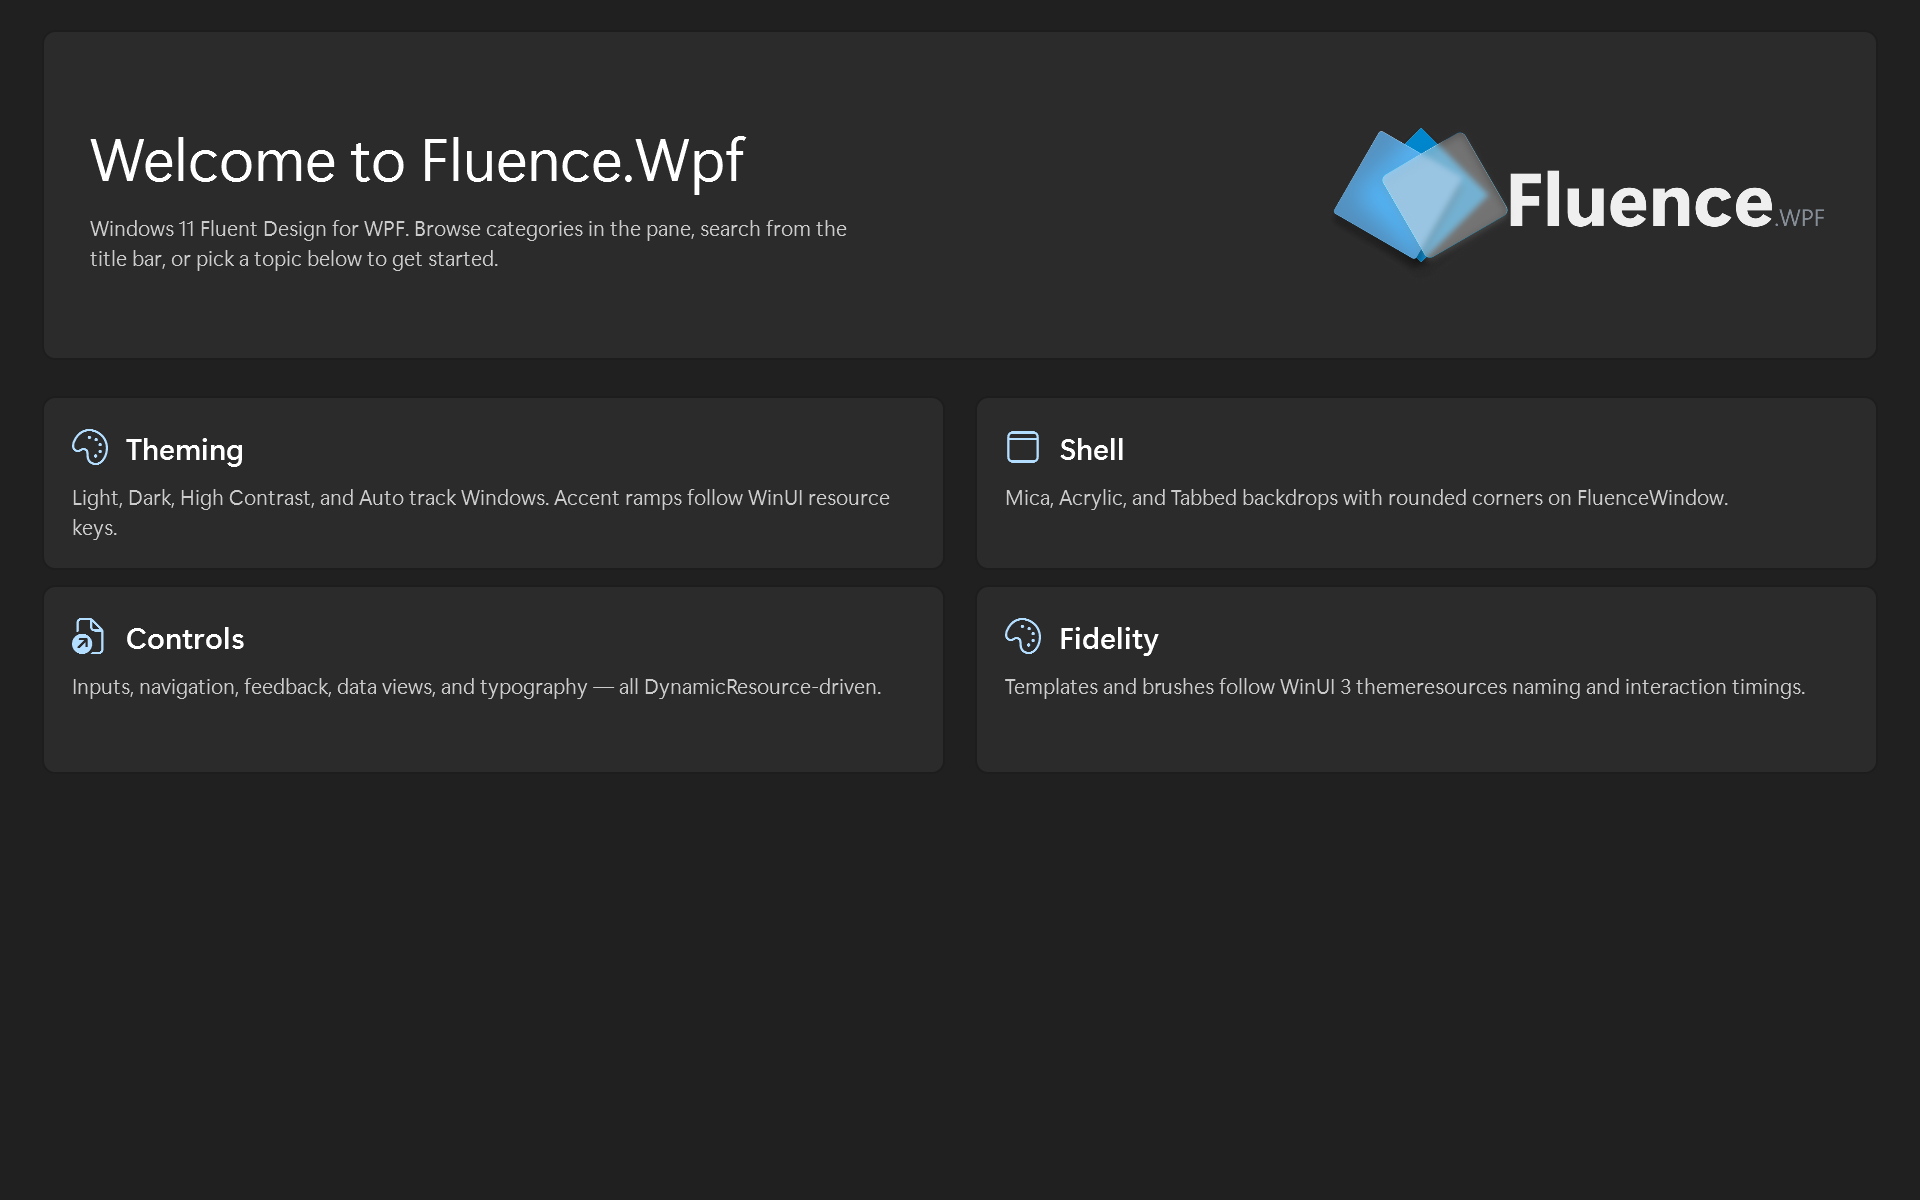
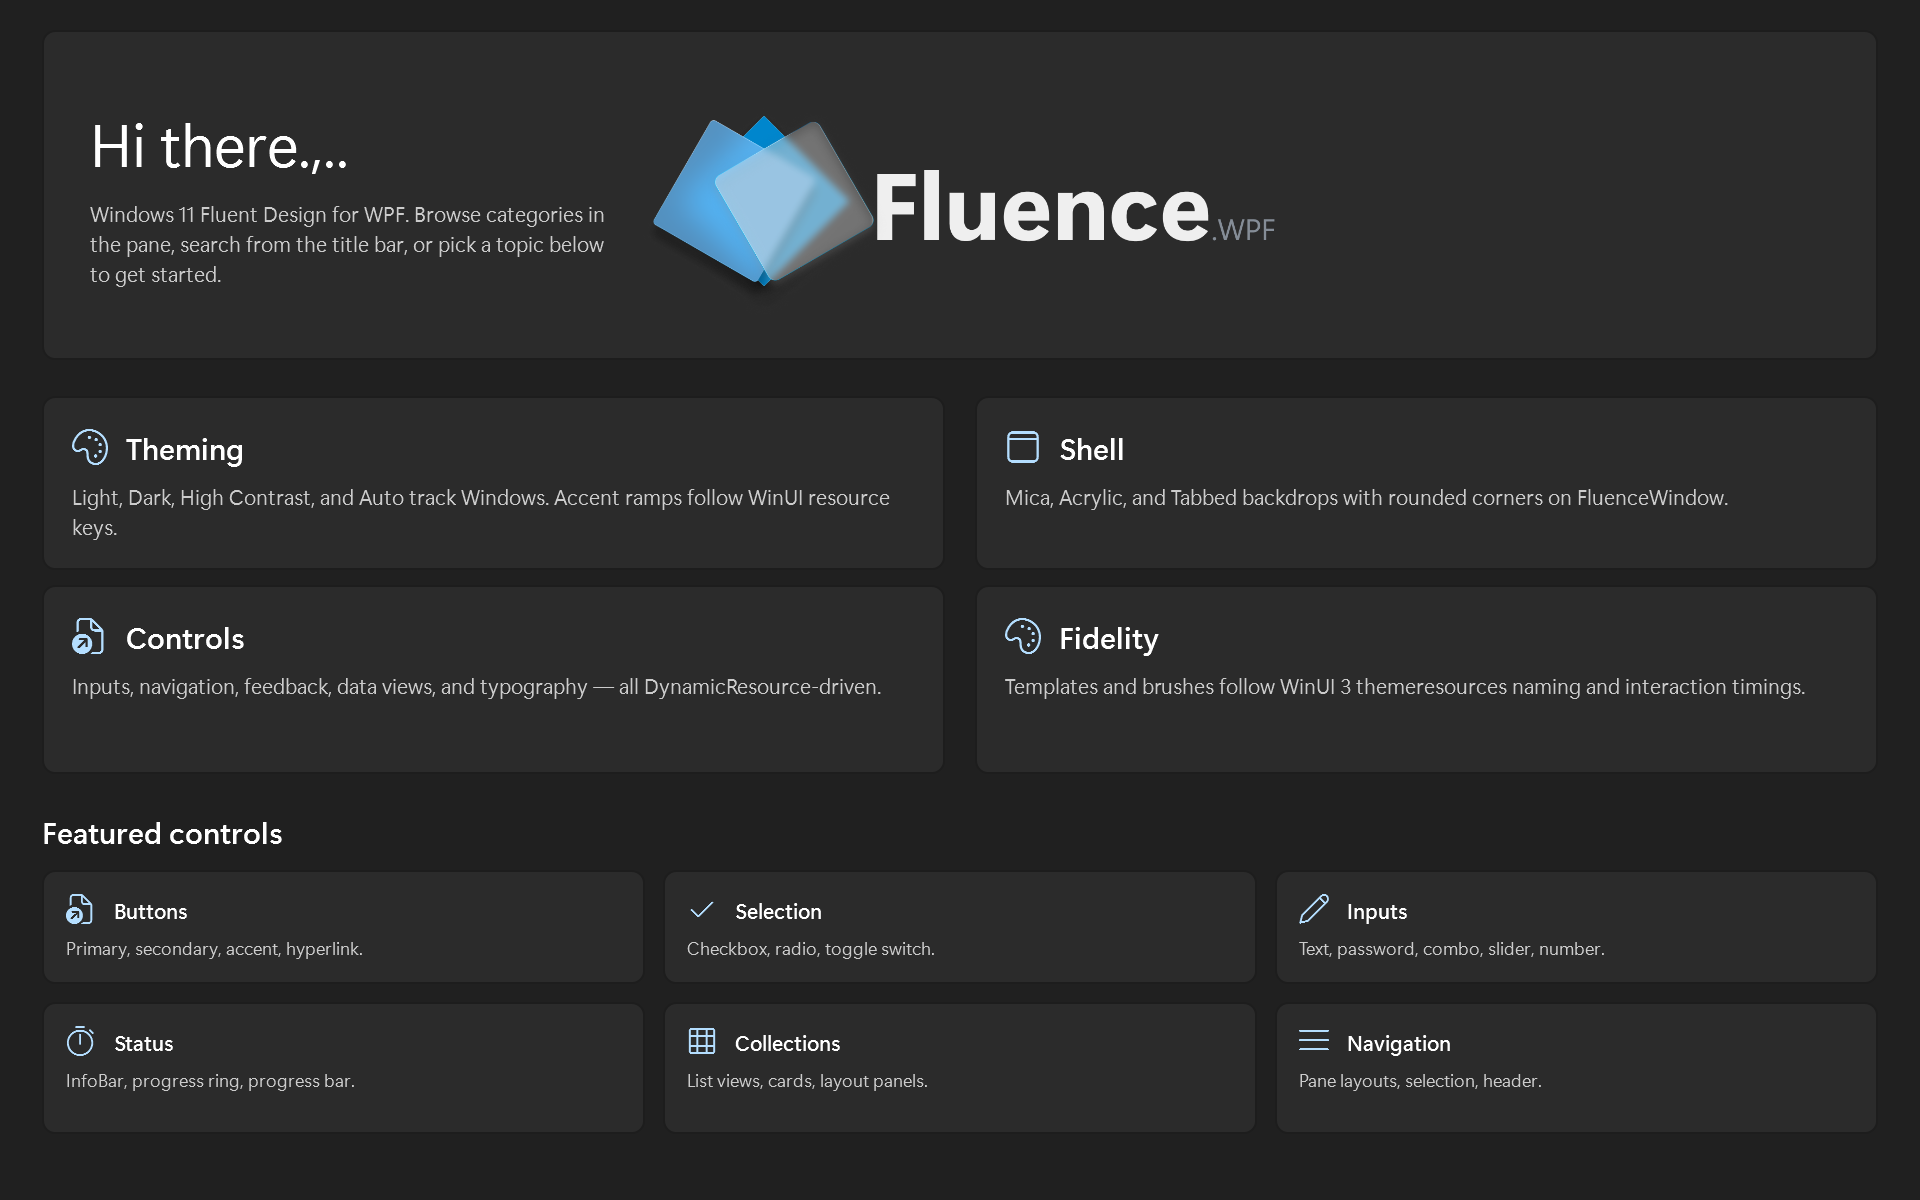
Docs: Regenerate gallery screenshots post WI-1D Paradigm A (Step 1D.3)
Reruns GalleryScreenshotHarness.CaptureBannerAcrossThemesAndScales with
FLUENCE_CAPTURE_SCREENSHOTS=1 to capture the new FeaturedControlsGrid + six
featured control tiles (Buttons, Selection, Inputs, Status, Collections,
Navigation) that landed in 46c4b93 alongside the existing four-tile category
grid (Theming, Shell, Controls, Fidelity). File sizes grew ~34% per image,
reflecting the added surface.

Visual verification pass: Light and Dark render cleanly with theme-reactive
brushes tracking the swap; HighContrast shows correct FeaturedControlsGrid +
category tiles (the pre-existing HC banner wordmark fade is unrelated to WI-1D
and is a separate BannerLight.png raster concern).

Logged evidence + repeatable invocation command in
docs/_internal/wi1-verification.md. WI-1D Step 1D.3 closed end to end.

diff --git a/docs/_internal/wi1-verification.md b/docs/_internal/wi1-verification.md
@@ -288,6 +288,46 @@ Remaining single failure is the pre-existing WI-3 item
 `RadioButton_OuterRing_UsesControlStrongStrokeBrush` — WI-1 is now closed end
 to end.
 
+### WI-1D Step 1D.3 — screenshot regeneration (recorded 2026-04-20)
+
+Regenerated `docs/screenshots/banner-{light,dark,highcontrast}-{1,1.5}x.png` via
+[GalleryScreenshotHarness.CaptureBannerAcrossThemesAndScales](../../Fluence.Wpf.Tests/GalleryScreenshotHarness.cs)
+with `FLUENCE_CAPTURE_SCREENSHOTS=1`. Invocation that works inside this session:
+
+```powershell
+dotnet vstest Fluence.Wpf.Tests/bin/Debug/net10.0-windows10.0.26100.0/Fluence.Wpf.Tests.dll `
+  --TestCaseFilter:"FullyQualifiedName~CaptureBannerAcrossThemesAndScales"
+```
+
+(`dotnet test` silently skipped output in this session's shell; `dotnet vstest`
+against the pre-built DLL is the reliable path. Result: `Passed 1, Failed 0`.)
+
+File size growth reflects the added **Featured controls** heading +
+`FeaturedControlsGrid` 3×2 card surface below the existing four-tile category
+grid:
+
+| File                             | Before (04-17) | After (04-20) |
+|----------------------------------|---------------:|--------------:|
+| banner-light-1x.png              |         68 KB  |        91 KB  |
+| banner-light-1.5x.png            |         78 KB  |       104 KB  |
+| banner-dark-1x.png               |         66 KB  |        89 KB  |
+| banner-dark-1.5x.png             |         74 KB  |        99 KB  |
+| banner-highcontrast-1x.png       |         64 KB  |        87 KB  |
+| banner-highcontrast-1.5x.png     |         70 KB  |        95 KB  |
+
+Visual pass on all three 1× captures:
+
+- **Light** — hero banner + four-tile category grid (Theming / Shell / Controls / Fidelity) + Subtitle "Featured controls" + six-tile grid (Buttons, Selection, Inputs, Status, Collections, Navigation). All text readable; card strokes render with the canonical `CardStrokeColorDefault` tone.
+- **Dark** — same layout; theme-reactive foreground/background brushes tracked the swap cleanly. No stale Light brushes on any surface.
+- **HighContrast** — FeaturedControlsGrid + category tiles render correctly; the **pre-existing** HC banner wordmark fade (BannerLight.png raster blending into the HC-light surface) is unrelated to 46c4b93 and is tracked separately (not a WI-1D regression).
+
+The `GalleryScreenshotHarness` hosts `GalleryHomePage` inside a plain `Window`
+per its documented limitation (`RenderTargetBitmap` cannot capture DWM
+backdrops), so the NavigationView section-header grouping from 46c4b93 is
+**not** visible in these banners. Runtime verification of the grouped pane is
+covered by MSTest `MainWindow_NavigationPane_ContainsSectionHeaders` already
+green.
+
 ## WI-2 API snapshot diff
 
 _(see `docs/fluencewindow-api-snapshot.md` for the enumeration; this section
